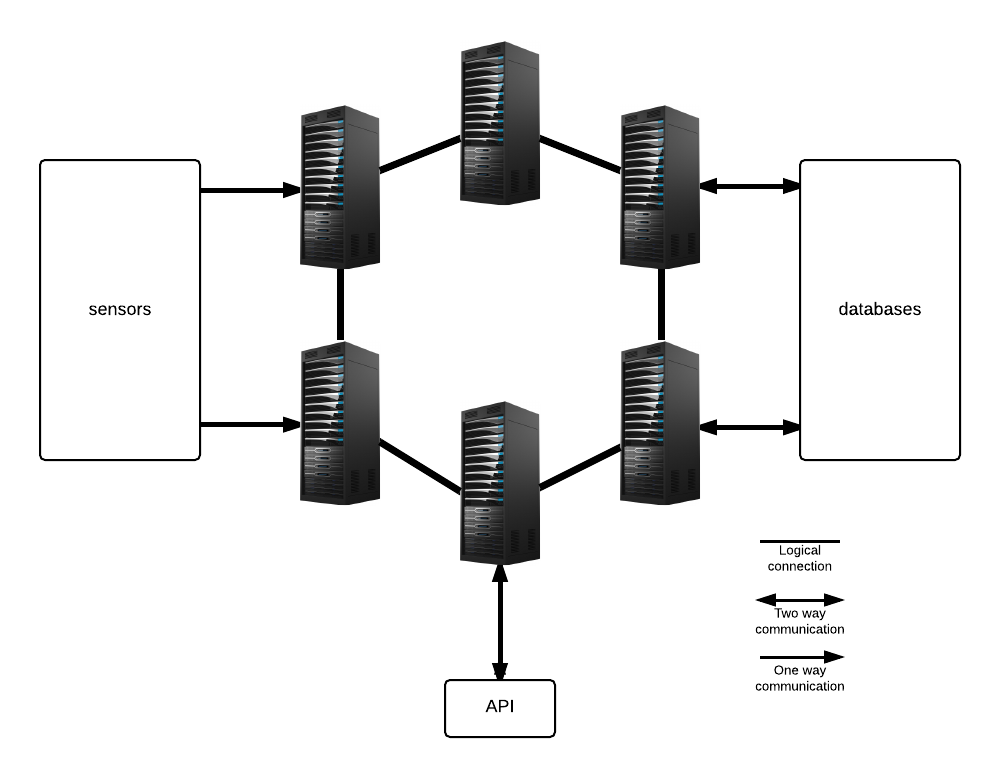
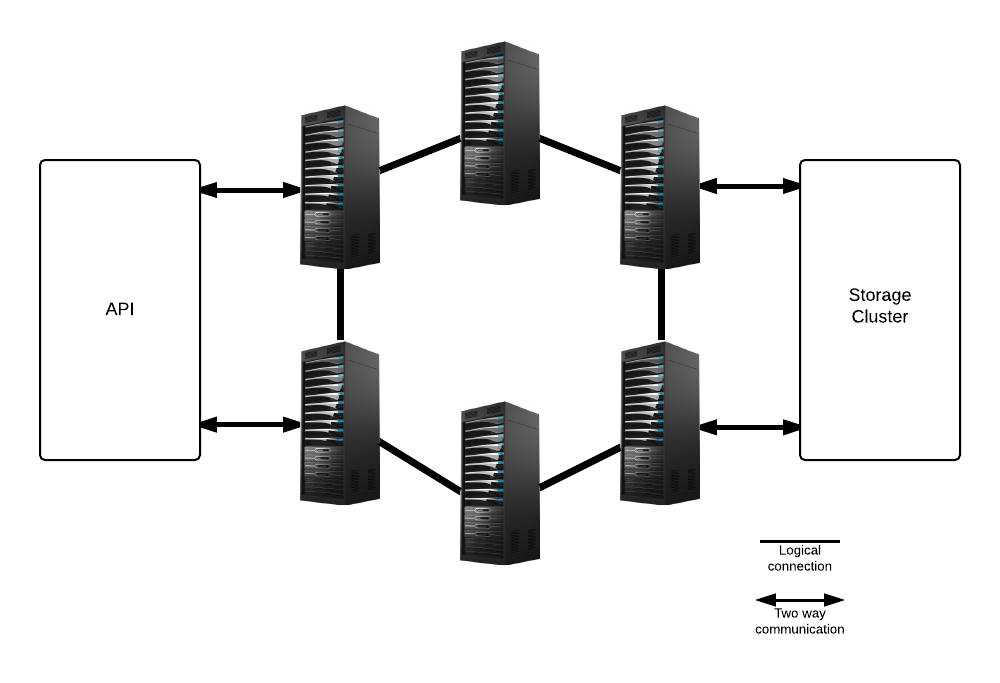
processed feedback chapter 6

diff --git a/6-hardware/hardwaredescription.tex b/6-hardware/hardwaredescription.tex
@@ -18,6 +18,9 @@ HEMS will use clusters of computer to manage the database system and to store ou
 
 As can be seen in \autoref{fig:database-cluster}, HEMS will use four database racks to have redundancy in the system. The server is connected as a ring, which is the common way to setup database server. By using this form of architecture, HEMS will be more reliable and fault tolerant. There will also be two physical connection to the main analytic cluster to make this system more fault tolerant in terms of connection. HEMS database cluster will use the same server, Dell PowerEdge R530, for controlling the SATA storage machine.
 
+\subsection*{Related patterns}
+This storage cluster implements broker, shared repository, and unit of work patterns. Broker pattern is implemented in a mechanism that any other component of this system can connect to the cluster and see this as a single entity, although actually the cluster consists of more than one entity. If this storage cluster is seen as a single entity, then this is also an implementation of shared repository pattern, where a client or other instance connects to the storage cluster and proceeds with corresponding operations. Unit of Work pattern will be used to keep track of changes to objects and to coordinate writing these changes to the database in one database call.
+
 \subsection{Compute cluster}
 \label{subsec:analytics}
 Compute cluster will be the main brain of HEMS. The data presentation will be handled by this system. The analysis process also runs on top of this hardware. To increase availability and reliability, HEMS will have six server racks to do the processing as depicted in \autoref{fig:analytic-cluster}.
@@ -28,3 +31,6 @@ Compute cluster will be the main brain of HEMS. The data presentation will be ha
 \caption{Logical schematic of analytic cluster of HEMS}
 \label{fig:analytic-cluster}
 \end{figure}
+
+\subsection*{Related patterns}
+Front page controller pattern is implemented in the compute cluster, which includes decorator and command pattern, because the compute cluster is also responsible for handling incoming connection through API. 

diff --git a/4-analysis/analysis.tex b/4-analysis/analysis.tex
@@ -418,3 +418,49 @@ To consider:
 %
 %%MVP potel:
 %%\url{Potel: http://www.wildcrest.com/Potel/Portfolio/mvp.pdf}
+
+\section{Layers}
+\manuallabel{sec:layers}{Layers}
+
+\begin{description}
+\item [Source]~\\
+Pattern-oriented Software Architecture - Volume 1 \cite{wiley-1}
+
+\item [Issue]~\\
+The system consists of high-level components (e.g. user interface), which are dependent on lower level components (domain logic, database). Decoupling these components is important.
+
+\item [Assumptions/Constraints]~
+\begin{itemize}
+\item It is assumed that the system will have higher-level components that depend on lower-level components.
+\end{itemize}
+~\\[-1.5cm]
+
+\item [Positions]~
+\begin{enumerate}
+\item Relaxed Layered System
+\item Layers
+% Indirection Layers??
+\end{enumerate}
+~\\[-1.5cm]
+
+\item [Decision] ~\\
+The system will use the Layers pattern to divide the application in multiple layers. The top layer will implement the Service Layer pattern, the middle layer will implement the domain logic (domain model) and the bottom layer will be responsible for the data storage.
+
+\item [Argument]~
+\begin{enumerate}
+\item The relaxed layered system is a variant of the Layers pattern which allows layers to use services of any layer below it, instead of only the next layer. This increases the flexibility and performance of the system. However, this pattern has a large negative impact on the maintainability.
+
+\item 
+Using the layers pattern increases maintainability by decoupling components of different levels of abstraction.
+
+\end{enumerate}
+
+\item [Implications]~\\
+Using layers will have a positive impact on the maintainability and re-usability of the system. An increased maintainability will help prevent bugs, which on the longer term helps to increase the reliability of the system. 
+
+The performance of the system will have some negative impact, since the request have to pass all the layers, even if they only need logic/data in the bottom layer.
+
+\item [Related requirements/decisions]~\\
+\ref{sec:service-layer}, 
+
+\end{description}
